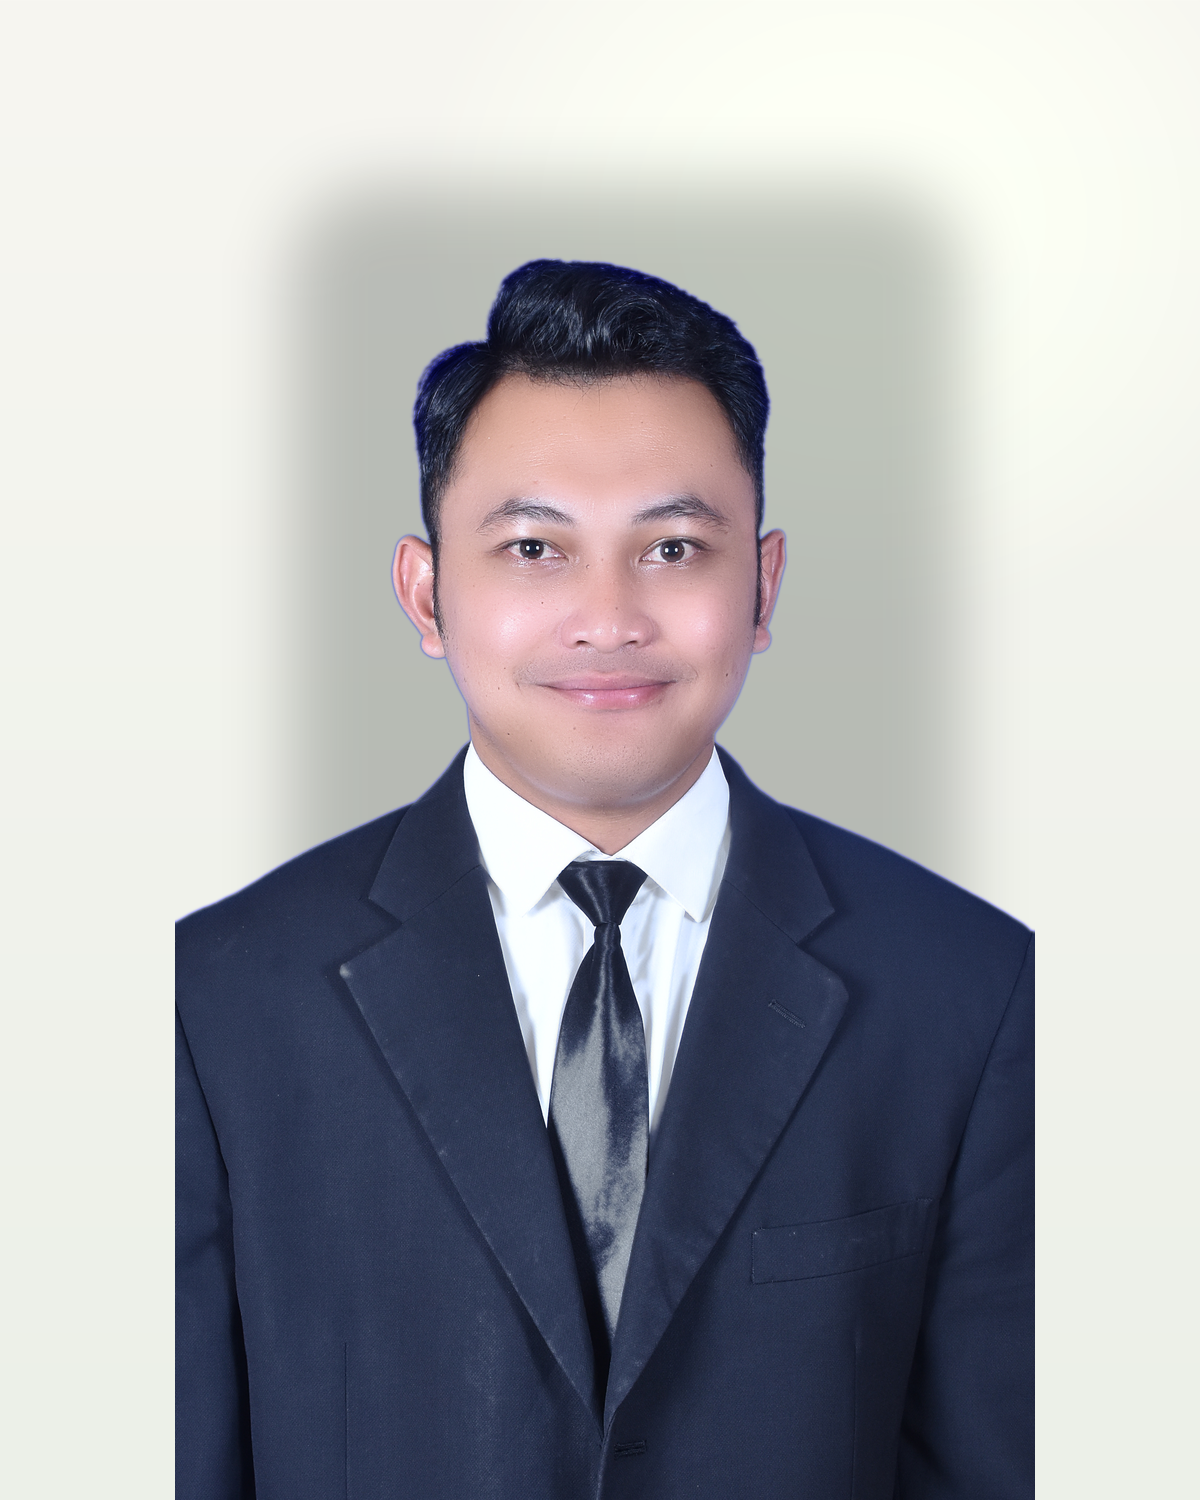
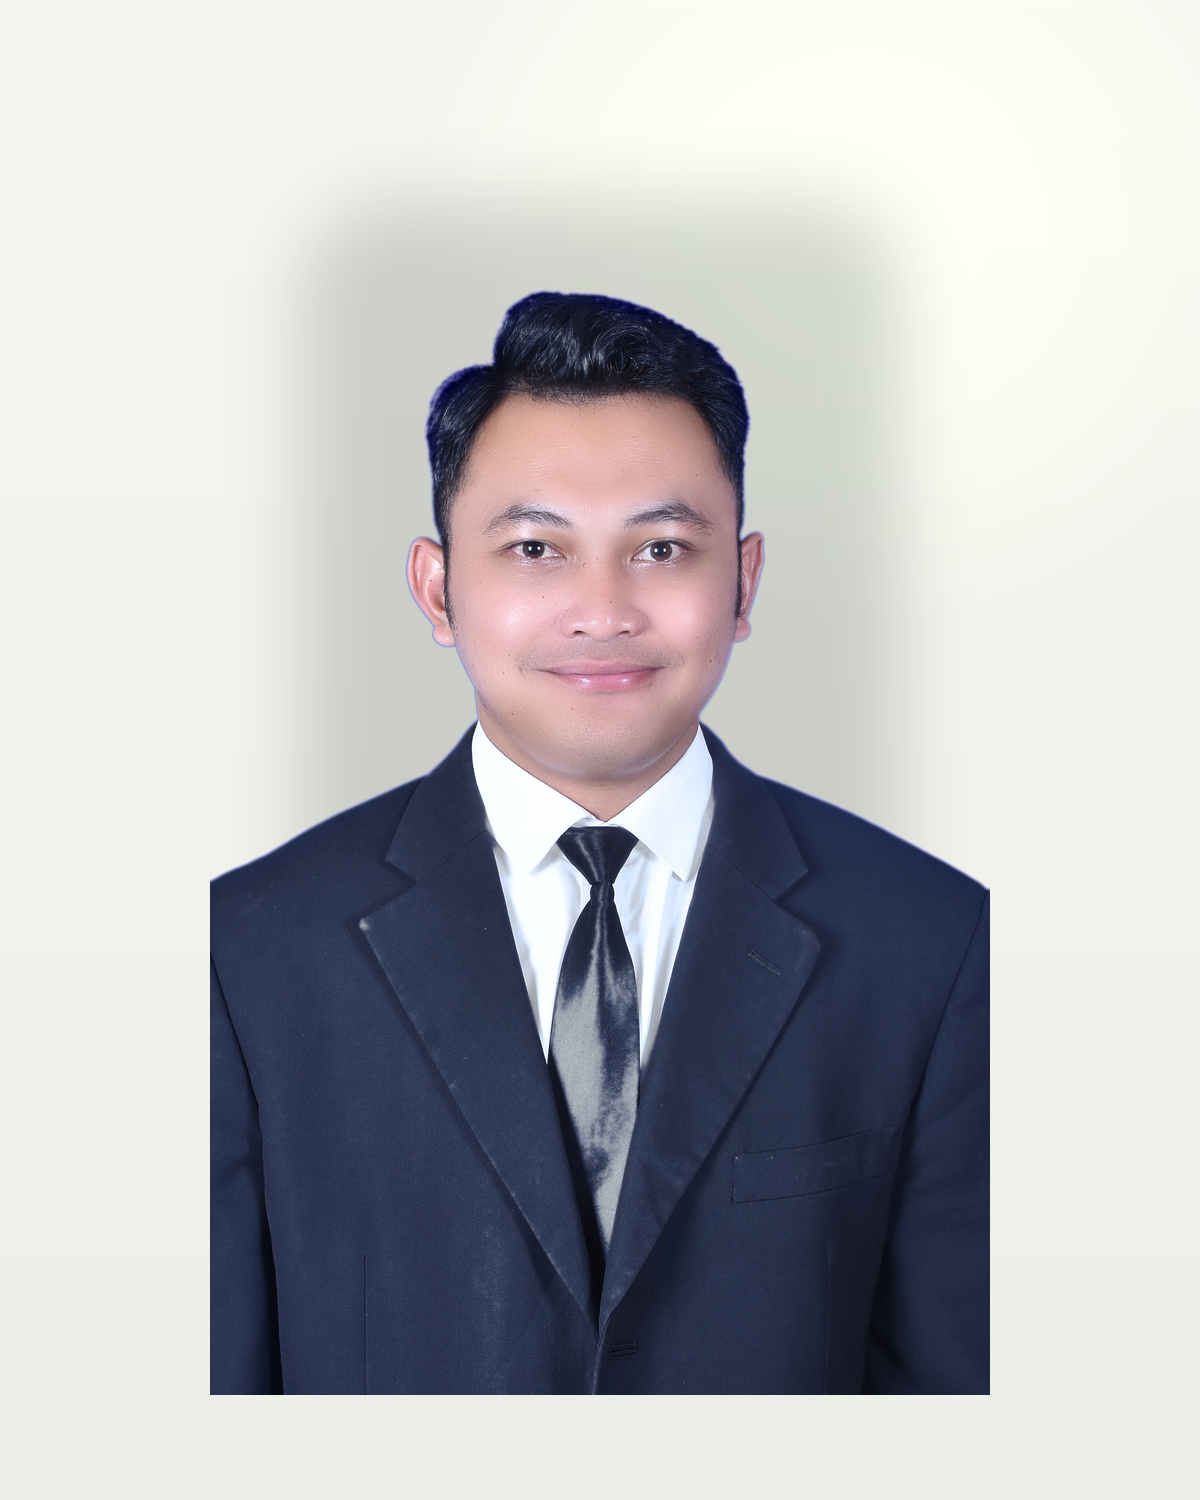
Align team cards and tighten tiwul packshot

diff --git a/components/team.tsx b/components/team.tsx
@@ -26,7 +26,7 @@ export function Team() {
                     src={member.image}
                     alt={member.name}
                     fill
-                    className="object-cover"
+                    className="object-contain p-4"
                   />
                 ) : (
                   <div className="flex h-full items-center justify-center">
